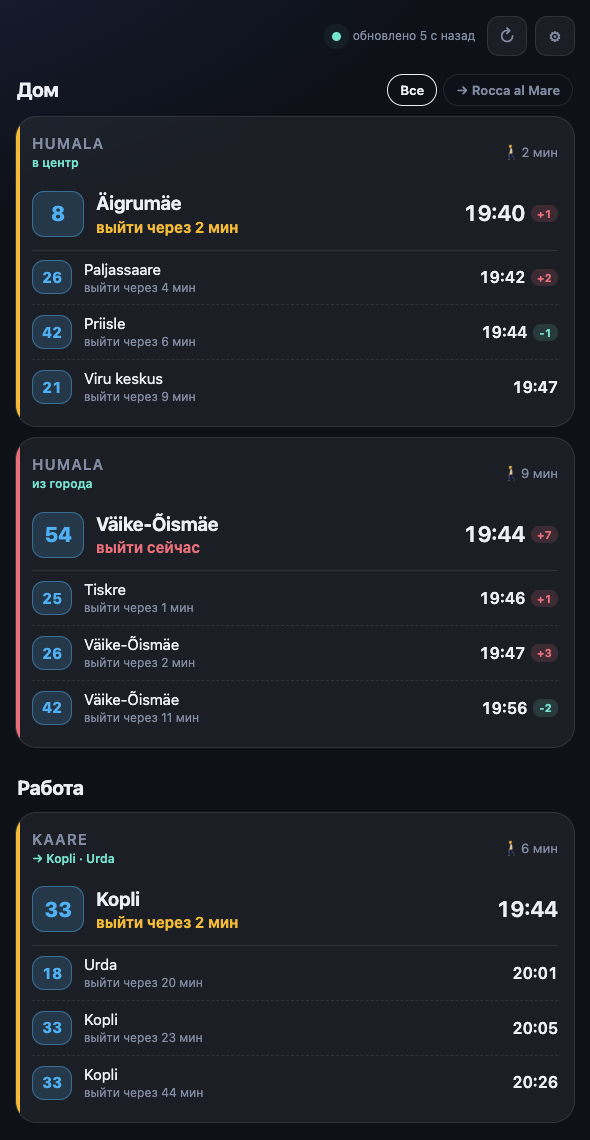
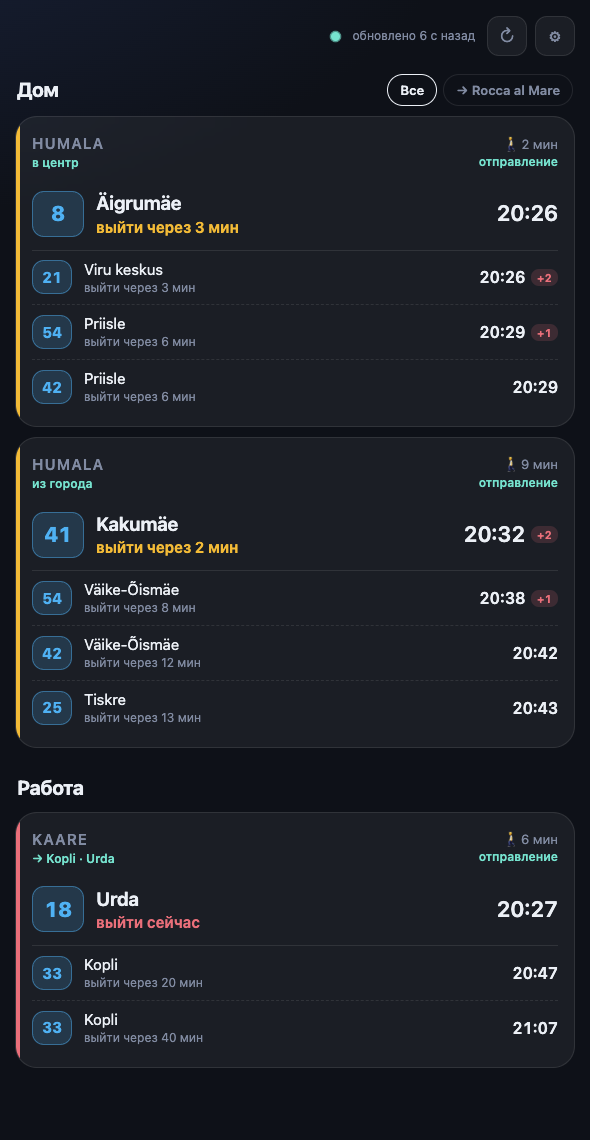
Add "отправление" caption above the departure times column

diff --git a/src/main.ts b/src/main.ts
@@ -145,7 +145,7 @@ function stopCard(loc: LocationCfg, stop: StopCfg, goal: GoalCfg | undefined, id
   const stale = failed.has(stop.siriId) ? ' <span class="stale" title="Данные устарели">⚠</span>' : '';
   const head = `<header>
       <div class="stop-title"><h2>${esc(stop.name)}</h2>${dir ? `<span class="dirs">${dir}</span>` : ''}</div>
-      <span class="walk">🚶 ${walk} мин${stale}</span></header>`;
+      <div class="head-right"><span class="walk">🚶 ${walk} мин${stale}</span><span class="dirs">отправление</span></div></header>`;
   const shell = (inner: string, cls = '') => ({ html: `<section class="card ${cls}">${head}${inner}</section>`, empty: false });
   if (!data.has(stop.siriId)) return shell(`<p class="muted">${loading || !fetchedAt ? 'Загрузка…' : 'Нет данных'}</p>`);
 

diff --git a/src/style.css b/src/style.css
@@ -212,3 +212,7 @@ main { gap: 22px; }
 .rows .dest { display: flex; align-items: baseline; gap: 6px; min-width: 0; }
 .rows .dest .dn { min-width: 0; overflow: hidden; text-overflow: ellipsis; white-space: nowrap; }
 .rows .dest .arr { flex: none; color: var(--muted); font-weight: 500; font-size: .85em; font-variant-numeric: tabular-nums; }
+
+/* right side of a card header: walking time, and the caption of the times column below it */
+.head-right { display: flex; flex-direction: column; align-items: flex-end; gap: 1px; }
+.head-right .dirs { font-size: 12px; }
